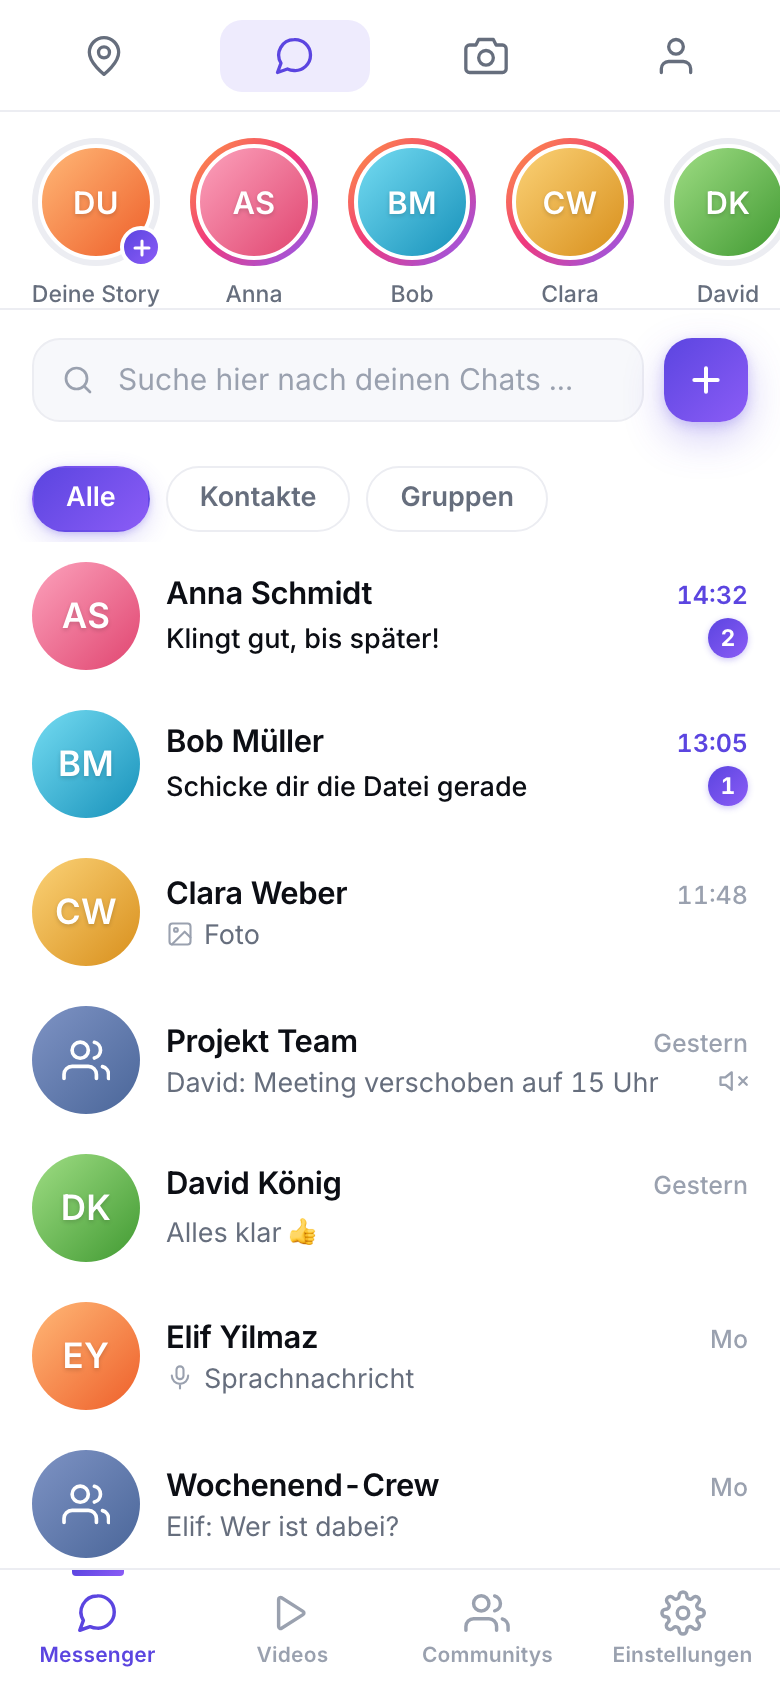
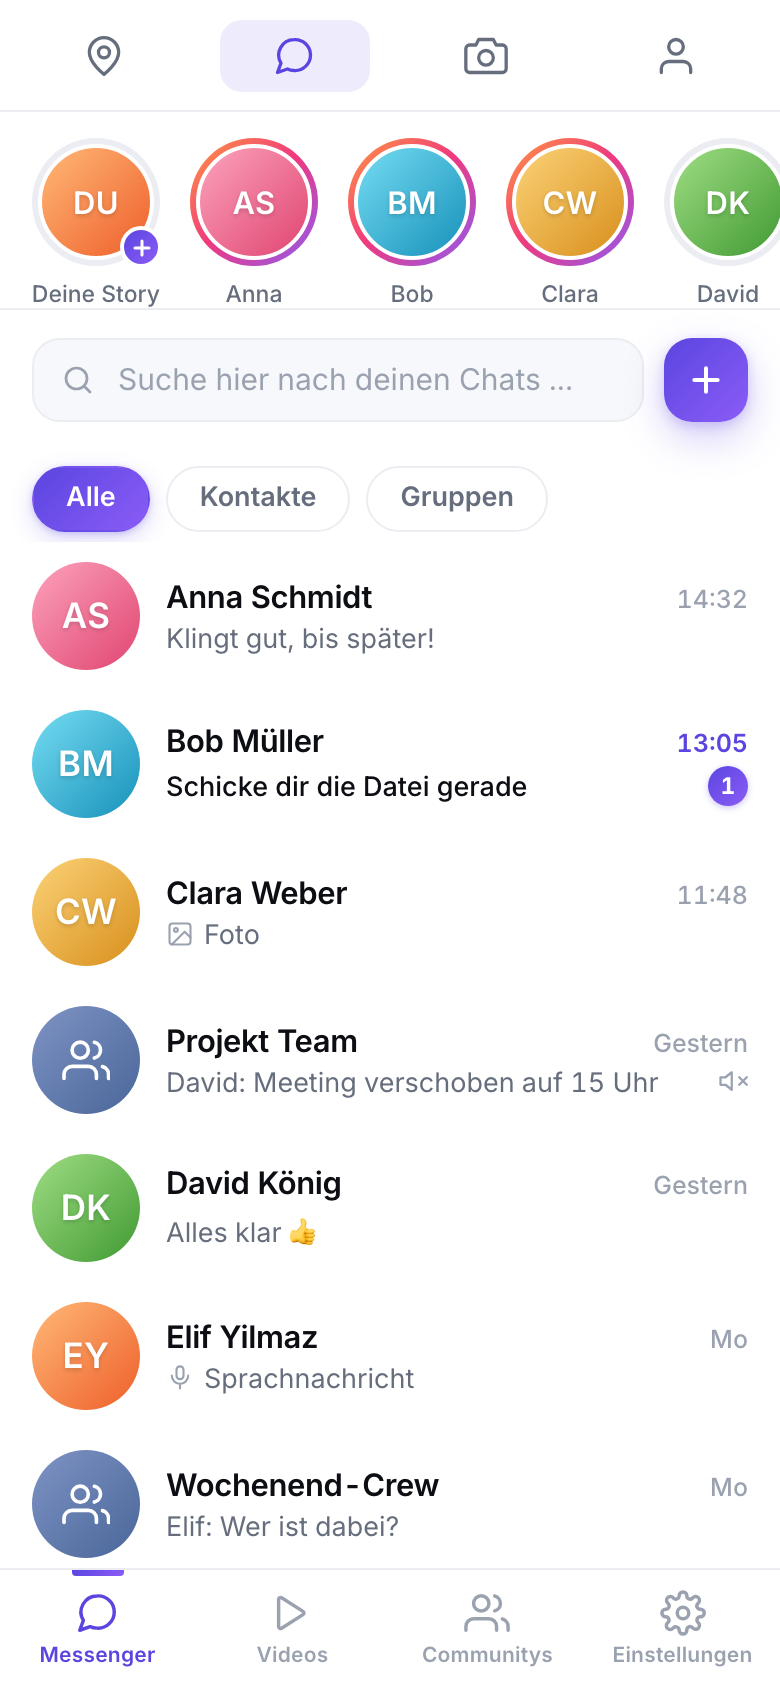
Chatblasen: Uhrzeit in die letzte Zeile, kein Rahmen mehr
Die Uhrzeit stand in einer eigenen Zeile unter dem Text und hat jede Blase
unnoetig hoch gemacht. Gefloatet setzt sie sich ans Ende der letzten
Textzeile, wenn dort Platz ist, und rutscht sonst von allein eine Zeile
tiefer - das Verhalten, das man aus echten Messengern kennt.

Ausserdem: der 1px-Rahmen um jede eingehende Blase ist weg, dafuer ein
weicher Schatten. Die Blase liegt jetzt auf dem grauen Grund statt als
Karte darin zu stecken. Rundung 18px mit 6px-Ecke, Text 15px.

Community-Avatare sind ebenfalls Verlaeufe statt flacher Farben.

Geprueft: npm run test:alles (alle Punkte), tsc --noEmit, Chatansicht
angesehen.

Changed region(s): [[0.2154, 0.3389, 0.5538, 0.4005], [0.8615, 0.3389, 0.9538, 0.4005]]

diff --git a/web/public/styles.css b/web/public/styles.css
@@ -47,6 +47,7 @@ ul { margin: 0; padding: 0; list-style: none; }
      Aber ein gedaempfter, kuehlerer Ton statt des grellen Originals. */
   --bubble-out: #DCF5E3;
   --bubble-out-text: #0D2E19;
+  --bubble-out-meta: #4A7A5C;
   --bubble-in: #FFFFFF;
   --surface: #FFFFFF;
   --surface-2: #F7F8FB;
@@ -82,6 +83,7 @@ ul { margin: 0; padding: 0; list-style: none; }
     --accent: #22D3EE;
     --bubble-out: #16452F;
     --bubble-out-text: #DDF5E5;
+    --bubble-out-meta: #7FB694;
     --bubble-in: #16181D;
     --surface: #000000;
     --surface-2: #0E1014;
@@ -108,6 +110,7 @@ ul { margin: 0; padding: 0; list-style: none; }
   --accent: #22D3EE;
   --bubble-out: #16452F;
   --bubble-out-text: #DDF5E5;
+  --bubble-out-meta: #7FB694;
   --bubble-in: #16181D;
   --surface: #000000;
   --surface-2: #0E1014;
@@ -604,28 +607,38 @@ ul { margin: 0; padding: 0; list-style: none; }
   font-weight: 600;
 }
 .msg {
-  max-width: 78%;
-  padding: 8px 12px 6px;
-  border-radius: 16px;
-  font-size: 14.5px;
-  line-height: 1.4;
+  max-width: 76%;
+  padding: 8px 12px 7px;
+  border-radius: 18px;
+  font-size: 15px;
+  line-height: 1.42;
+  letter-spacing: -0.01em;
   word-wrap: break-word;
   position: relative;
 }
+/* Die Blase raeumt hinter dem gefloateten Zeitstempel auf - ohne das haengt
+   er unten aus der Blase heraus. */
+.msg::after { content: ''; display: block; clear: both; }
+/*
+  Kein Rahmen mehr, sondern ein weicher Schatten: die Blase liegt dann auf dem
+  grauen Grund statt als Karte darin zu stecken. Ein 1px-Rahmen um jede
+  einzelne Nachricht macht einen Verlauf unruhig.
+*/
 .msg--in {
   align-self: flex-start;
   background: var(--bubble-in);
-  border: 1px solid var(--border);
-  border-bottom-left-radius: 5px;
+  box-shadow: 0 1px 1px rgba(12,14,20,.05), 0 1px 3px rgba(12,14,20,.06);
+  border-bottom-left-radius: 6px;
 }
 .msg--out {
   align-self: flex-end;
   background: var(--bubble-out);
   color: var(--bubble-out-text);
-  border-bottom-right-radius: 5px;
+  box-shadow: 0 1px 1px rgba(12,14,20,.04), 0 1px 3px rgba(12,14,20,.05);
+  border-bottom-right-radius: 6px;
 }
 .msg + .msg--in { margin-top: 2px; }
-.msg__sender { font-size: 12.5px; font-weight: 700; color: var(--brand); margin-bottom: 2px; }
+.msg__sender { display: block; font-size: 12.5px; font-weight: 700; color: var(--brand); margin-bottom: 2px; letter-spacing: -0.01em; }
 .msg__media {
   display: flex; align-items: center; gap: 8px;
   padding: 10px 4px;
@@ -633,16 +646,24 @@ ul { margin: 0; padding: 0; list-style: none; }
   font-size: 13.5px;
 }
 .msg__media svg { width: 18px; height: 18px; }
+/*
+  Die Uhrzeit stand bisher in einer eigenen Zeile unter dem Text und hat jede
+  Blase unnoetig hoch gemacht. Gefloatet setzt sie sich ans Ende der letzten
+  Textzeile, wenn dort Platz ist, und rutscht sonst von allein eine Zeile
+  tiefer - genau das Verhalten, das man aus echten Messengern kennt.
+*/
 .msg__foot {
-  display: flex; align-items: center; justify-content: flex-end; gap: 4px;
-  margin-top: 2px;
-  font-size: 10.5px;
+  float: right;
+  display: inline-flex; align-items: center; gap: 4px;
+  margin: 5px 0 0 10px;
+  font-size: 11px;
+  font-variant-numeric: tabular-nums;
   color: var(--text-3);
 }
-.msg--out .msg__foot { color: #4E7A5C; }
+.msg--out .msg__foot { color: var(--bubble-out-meta, #4A7A5C); }
 .msg__foot svg { width: 14px; height: 14px; }
 
-.typing { align-self: flex-start; display: flex; gap: 4px; padding: 12px 14px; background: var(--bubble-in); border: 1px solid var(--border); border-radius: 16px; border-bottom-left-radius: 5px; }
+.typing { align-self: flex-start; display: flex; gap: 4px; padding: 12px 14px; background: var(--bubble-in); box-shadow: 0 1px 1px rgba(12,14,20,.05), 0 1px 3px rgba(12,14,20,.06); border-radius: 18px; border-bottom-left-radius: 6px; }
 .typing span { width: 6px; height: 6px; border-radius: 50%; background: var(--text-3); animation: bounce 1.2s infinite; }
 .typing span:nth-child(2) { animation-delay: .15s }
 .typing span:nth-child(3) { animation-delay: .3s }

diff --git a/app/screens/messenger/ChatDetailScreen.tsx b/app/screens/messenger/ChatDetailScreen.tsx
@@ -13,7 +13,7 @@ import {
 import { useSafeAreaInsets } from 'react-native-safe-area-context';
 import Ionicons from '@expo/vector-icons/Ionicons';
 import { Avatar } from '../../components/Avatar';
-import { colors, radius, sizes, spacing, typography } from '../../constants/design';
+import { colors, radius, shadow, sizes, spacing, typography } from '../../constants/design';
 import { antwortAuf } from '../../lib/antworten';
 import { CURRENT_USER_ID, mockCommunityMessages, mockMessages, mockUsers } from '../../mocks';
 import { AnhangSheet } from '../../components/AnhangSheet';
@@ -379,18 +379,23 @@ const styles = StyleSheet.create({
     overflow: 'hidden',
   },
 
-  bubble: { maxWidth: '78%', paddingHorizontal: 12, paddingTop: 8, paddingBottom: 6, borderRadius: radius.lg },
+  bubble: { maxWidth: '76%', paddingHorizontal: 12, paddingTop: 8, paddingBottom: 7, borderRadius: 18 },
+  /*
+   * Kein Rahmen mehr, sondern ein weicher Schatten: die Blase liegt dann auf
+   * dem grauen Grund statt als Karte darin zu stecken. Ein 1px-Rahmen um jede
+   * einzelne Nachricht macht einen Verlauf unruhig.
+   */
   bubbleIn: {
     alignSelf: 'flex-start',
     backgroundColor: colors.bubbleIn,
-    borderWidth: StyleSheet.hairlineWidth,
-    borderColor: colors.border,
-    borderBottomLeftRadius: 5,
+    borderBottomLeftRadius: 6,
+    ...shadow.sm,
   },
   bubbleOut: {
     alignSelf: 'flex-end',
     backgroundColor: colors.bubbleOut,
-    borderBottomRightRadius: 5,
+    borderBottomRightRadius: 6,
+    ...shadow.sm,
   },
   sender: { marginBottom: 2, color: colors.brand, fontSize: 12.5, fontWeight: '700' },
   messageText: { color: colors.text, ...typography.message, lineHeight: 20 },
